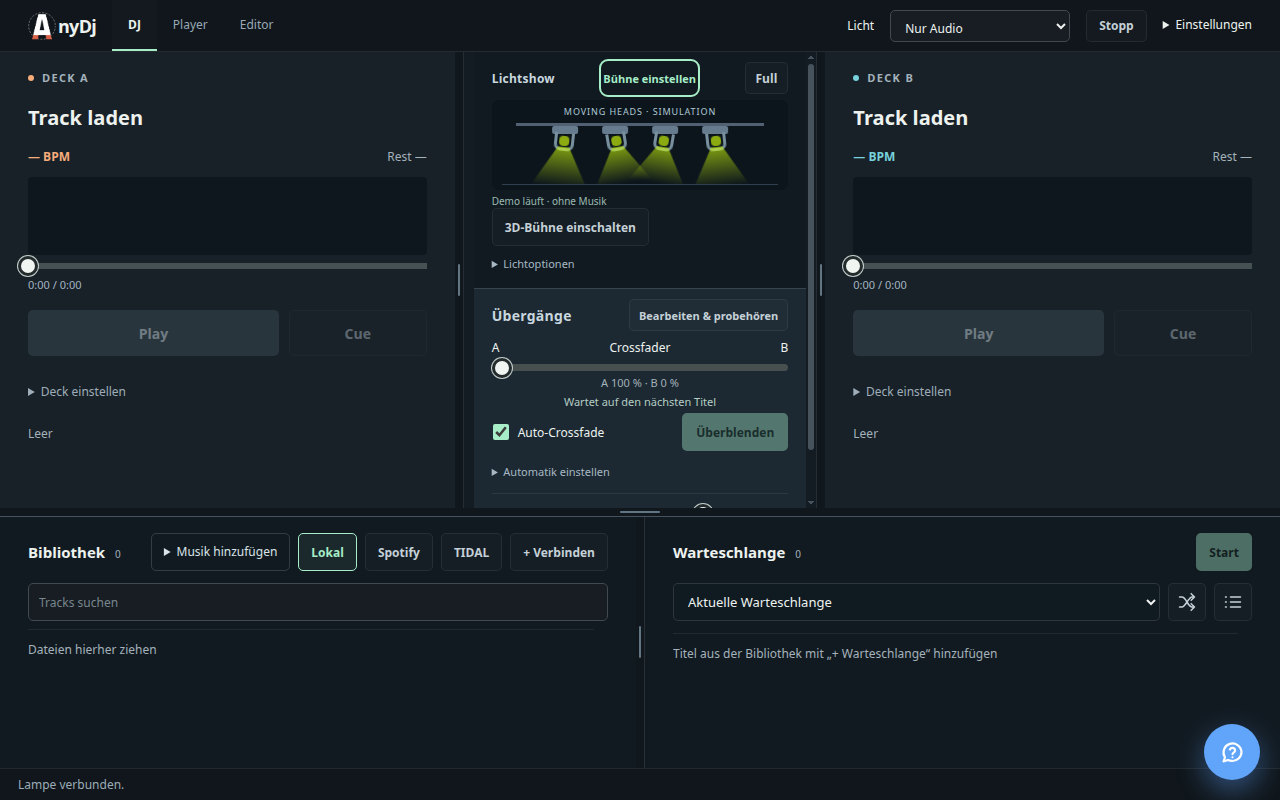
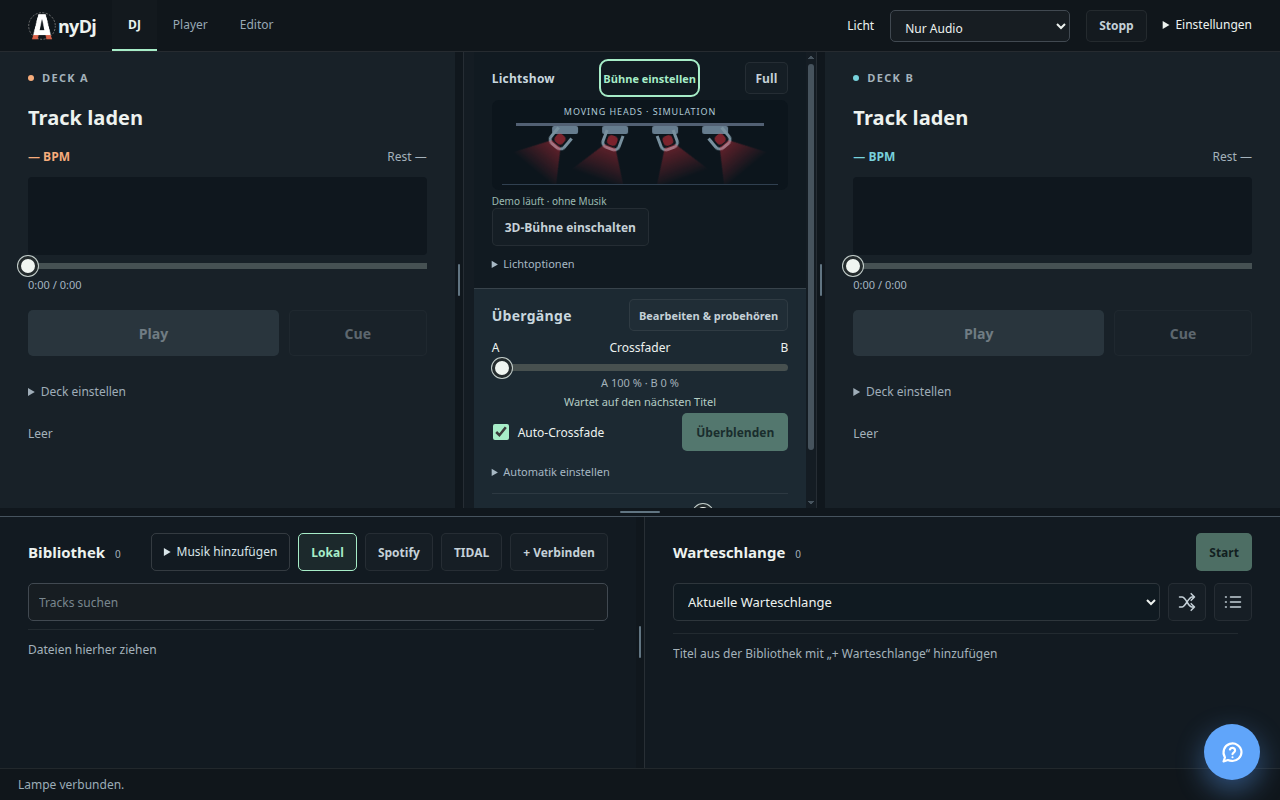
Fixed test

Changed region(s): [[0.4062, 0.1562, 0.5938, 0.25]]

diff --git a/public/dmx-moving-cues.js b/public/dmx-moving-cues.js
@@ -5,6 +5,7 @@ import {dramaAt} from './instrument-activity.js';
 import {MOVING_MOODS,movingMood} from './dmx-moving-moods.js';
 const clamp=(v,a=0,b=1)=>Math.max(a,Math.min(b,v));
 const finite=(v,fallback)=>Number.isFinite(v)?v:fallback;
+const continuous=cue=>cue?.continuous||cue?.reason==='groove';
 // Choose destinations from acoustically selected events, never every grid beat.
 // Travel ends ON the event. Quiet gaps hold the last destination.
 export function movingCues(plan,mode,mood='balanced'){
@@ -60,7 +61,7 @@ export function movingCues(plan,mode,mood='balanced'){
     const directionDesign=directions[phraseIndex];
     const design=mood==='balanced'||mood==='disco'?directionDesign:null;
     const event=arrangement.patterns?.events?.[index];
-    const atmospheric=!event?.development&&mode==='auto'&&mood==='balanced'&&(phrase?.movement?.character==='atmospheric'||['held','quiet','break','outro'].includes(section?.look));
+    const atmospheric=!event?.development&&mode==='auto'&&mood==='balanced'&&(directionDesign?.category==='atmospheric'||['held','quiet','break','outro'].includes(section?.look));
     const kind=atmospheric?'sweep':mode==='wash'?'wash':mood==='atmospheric'?'sweep':event?.kind||phrase?.kind||'bounce';
     const calm=atmospheric||kind==='wash'||['held','quiet','break','outro'].includes(section?.look);
     const strength=clamp(finite(arrangement.accents?.[index],0)/.7);
@@ -75,6 +76,7 @@ export function movingCues(plan,mode,mood='balanced'){
       energy>=.55&&rhythmicDrive>=.45&&strength>=.3&&
       (section?.look==='peak'||energy>=.72)&&(event?.driving||phrase.movement.driving>=.5||phrase.movement.percussive);
 
+    const flowing=directed&&design&&!groove&&!event?.development&&!['held','break'].includes(section?.look)&&energy>=.2;
     const prominence=clamp((finite(arrangement.eventSalience?.[index],0)-(motives[phraseIndex]?.salience??.35))/.4);
     let drive=1;
     let reason;
@@ -82,15 +84,15 @@ export function movingCues(plan,mode,mood='balanced'){
       while(barIndex<downbeats.length&&downbeats[barIndex]<time-.04)barIndex++;
       const onBar=Math.abs((downbeats[barIndex]??Infinity)-time)<=.04;
       const motive=motives[phraseIndex];
-      const entrance=motive.changed&&lastEntry!==phraseIndex;
+      const entrance=(design?phraseIndex===0||phrases[phraseIndex-1]?.section!==phrase.section:motive.changed)&&lastEntry!==phraseIndex;
       const standout=finite(arrangement.accents?.[index],0)>=motive.threshold;
       const rise=(dramaAt(arrangement.drama,time)?.intensity??0)-(dramaAt(arrangement.drama,Math.max(section?.start??0,time-2))?.intensity??0);
       const building=section?.look==='lift'&&event?.kind==='build'&&(event.development||onBar&&rise>=.08);
-      if(!entrance&&!standout&&!building&&!groove)continue;
-      reason=event?.development?'build-development':groove?'groove':entrance?'musical-change':building?'build':'strong-accent';
+      if(!entrance&&!standout&&!building&&!groove&&!flowing)continue;
+      reason=event?.development?'build-development':groove?'groove':entrance?'musical-change':building?'build':standout?'strong-accent':'section-flow';
     }
     const previous=cues.at(-1),gap=time-previous.time;
-    if(gap<(groove?.65:Math.max(profile.spacing,design?.spacing??0,atmospheric?4:0,calm?1.5:kind==='sweep'?.75:.38)))continue;
+    if(gap<(groove?.65:flowing&&reason==='section-flow'?(calm?4:2):Math.max(profile.spacing,design?.spacing??0,atmospheric?4:0,calm?1.5:kind==='sweep'?.75:.38)))continue;
     const tone=clamp(finite(phrase?.tone,.5));
     const progress=clamp(finite(event?.progress,0));
     const spread=calm?5+energy*6:kind==='build'?8+24*progress:12+energy*20;
@@ -116,7 +118,7 @@ export function movingCues(plan,mode,mood='balanced'){
         // Keep turns on a musical subdivision. Energy chooses a phrase-level
         // pace, rather than shifting the phase at every individual drum hit.
         if(lastGrooveBeat===null||groovePhrase!==phraseIndex){
-          const phraseEnergy=dramaAt(arrangement.drama,phrase.start+.5)?.intensity??phrase.energy??energy;
+          const phraseEnergy=directionDesign?.energy??dramaAt(arrangement.drama,phrase.start+.5)?.intensity??phrase.energy??energy;
           drive=phraseEnergy>=.85?2:phraseEnergy<.65?.5:1;
         }else drive=lastDrive;
         if(lastGrooveBeat===null)motionBeat=Math.max(0,beat-(beatPosition(motionGrid,phrase.start)??beat))*drive;
@@ -130,12 +132,12 @@ export function movingCues(plan,mode,mood='balanced'){
       pose=groovePose(phaseBeat,{energy,strength,percussion,vocals,span:profile.span,formation:directionDesign?.formation||(mood==='disco'?'ribbon':'pairs'),shape:directionDesign?.shape||'sweep',progress:section?clamp((time-section.start)/Math.max(.1,section.end-section.start)):progress,period:mood==='disco'?4:(directionDesign?.period||16)});
     }else if(design&&!event?.development){
       const sectionProgress=section?clamp((time-section.start)/Math.max(.1,section.end-section.start)):progress;
-      const phraseBeat=(beatPosition(motionGrid,time)??time*2)-(beatPosition(motionGrid,phrase.start)??phrase.start*2);
+      const phraseBeat=(beatPosition(motionGrid,time)??time*2)-(beatPosition(motionGrid,section?.start??phrase.start)??(section?.start??phrase.start)*2);
       pose=directedPose(design,Math.floor(phraseBeat/4),sectionProgress).map(p=>({pan:clamp(p.pan*profile.span,-42,42),tilt:clamp(.8+(p.tilt-.8)*Math.min(1,profile.span),.55,1.15)}));
     }
     if(directed&&(design||groove)){
       const spatialBeat=beatPosition(motionGrid,time)??time*2;
-      pose=spatialPose(pose,spatialBeat,{energy,span:profile.span});
+      pose=spatialPose(pose,spatialBeat,{energy,span:profile.span,asymmetry:clamp((directionDesign?.asymmetry??.3)+(mood==='disco'?.2:0))});
     }
     if(!groove){lastGrooveBeat=null;groovePhrase=-1;}
     // Account for the peak speed of each interpolation curve. Short intervals
@@ -146,10 +148,10 @@ export function movingCues(plan,mode,mood='balanced'){
     // Connected rhythmic journeys fill their interval. Isolated gestures
     // retain bounded anticipation, so genuine quiet gaps still hold.
     const connected=groove&&mood!=='disco'&&previous.reason==='groove'&&sustained(previous.time,time);
-    const available=directed?Math.min(gap,event?.development?2:calm?1.5:groove?(connected?gap:1.2):.6):gap;
+    const available=directed?Math.min(gap,event?.development?2:flowing?Math.min(calm?4:2,time-(section?.start??0)):calm?1.5:groove?(connected?gap:1.2):.6):gap;
     const fraction=motionReach(previous.pose,pose,available,speed);
     const reachable=pose.map((p,i)=>({pan:previous.pose[i].pan+(p.pan-previous.pose[i].pan)*fraction,tilt:previous.pose[i].tilt+(p.tilt-previous.pose[i].tilt)*fraction}));
-    cues.push({time,...(reason?{reason}:{}),...(directed?{shape:directionDesign?.shape||'sweep'}:{}),...(groove&&mood!=='disco'?{drive,settle:prominence>.75?.95:prominence*.7}:{}),travel:groove?available:Math.min(available,Math.max(profile.travel,design?.travel??0,atmospheric?3:0,calm?.8:.2,motionDuration(previous.pose,reachable,speed))),pose:reachable});
+    cues.push({time,...(flowing?{continuous:true,settle:prominence>.75?.6:0}:{}),...(reason?{reason}:{}),...(directed?{shape:directionDesign?.shape||'sweep'}:{}),...(groove&&mood!=='disco'?{drive,settle:prominence>.75?.95:prominence*.7}:{}),travel:groove||flowing?available:Math.min(available,Math.max(profile.travel,design?.travel??0,atmospheric?3:0,calm?.8:.2,motionDuration(previous.pose,reachable,speed))),pose:reachable});
     if(directed)lastEntry=phraseIndex;
     ordinal++;
   }
@@ -161,14 +163,14 @@ export function movingCueAt(cues,time){
   const previous=cues[Math.max(0,lo-1)],next=cues[lo];
   if(!next||time<=next.time-next.travel)return previous.pose;
   const phase=clamp((time-(next.time-next.travel))/next.travel);
-  if(next.reason!=='groove'){
+  if(!continuous(next)){
     // Zero velocity AND acceleration at an isolated move's endpoints.
     const ease=phase*phase*phase*(phase*(phase*6-15)+10);
     return previous.pose.map((p,i)=>({pan:p.pan+(next.pose[i].pan-p.pan)*ease,tilt:p.tilt+(next.pose[i].tilt-p.tilt)*ease}));
   }
   const tangent=(index,head,key)=>{
     const a=cues[index-1],b=cues[index],c=cues[index+1];
-    if(!a||!c||b.reason!=='groove'||c.reason!=='groove'||
+    if(!a||!c||!continuous(b)||!continuous(c)||
       Math.abs(b.travel-(b.time-a.time))>1e-6||Math.abs(c.travel-(c.time-b.time))>1e-6)return 0;
     return motionTangent(a.pose[head][key],b.pose[head][key],c.pose[head][key],b.time-a.time,c.time-b.time)*(1-(b.settle??0));
   };

diff --git a/public/dmx-moving-direction.js b/public/dmx-moving-direction.js
@@ -5,14 +5,28 @@ const finite=(v,fallback)=>Number.isFinite(v)?v:fallback;
 // choreography, random figures or additional audio/model processing.
 export function movingDirections(plan,disco=false){
  const phrases=plan.arrangement?.patterns?.phrases||[],memory=[];
- return phrases.map(phrase=>{
-  if(!phrase.movement)return null; // Older plans retain their previous rendering.
+ const sectionProfiles=new Map(),sectionDesigns=new Map();
+ return phrases.map(original=>{
+  const sectionKey=Number.isInteger(original.section)?original.section:original;
+  if(!original.movement)return null;
+  if(sectionDesigns.has(sectionKey))return {...sectionDesigns.get(sectionKey),start:original.start,end:original.end};
+  let phrase=sectionProfiles.get(sectionKey);
+  if(!phrase){
+   const members=phrases.filter(p=>Number.isInteger(original.section)?p.section===original.section:p===original),duration=members.reduce((n,p)=>n+Math.max(.001,p.end-p.start),0);
+   const mean=(read,fallback)=>members.reduce((n,p)=>n+finite(read(p),fallback)*Math.max(.001,p.end-p.start),0)/duration;
+   const section=plan.sections?.[original.section];
+   phrase={...original,start:section?.start??original.start,end:section?.end??original.end,energy:mean(p=>p.energy,.4),tone:mean(p=>p.tone,.5),
+    movement:original.movement?{...original.movement,driving:mean(p=>p.movement?.driving,0),character:mean(p=>p.movement?.character==='atmospheric'?1:0,0)>.5?'atmospheric':original.movement.character==='atmospheric'?'rhythmic':original.movement.character}:null,
+    attention:{motionScale:mean(p=>p.attention?.motionScale,1),leader:members.filter(p=>p.attention?.leader==='vocals').length>members.length/2?'vocals':undefined}};
+   sectionProfiles.set(sectionKey,phrase);
+  }
+  if(!original.movement)return null; // Older plans retain their previous rendering.
   const section=plan.sections?.[phrase.section]||{};
-  let percussion=0,vocals=0,samples=0;
-  for(let t=phrase.start;t<phrase.end;t+=.5){const d=dramaAt(plan.arrangement.drama,t);if(d){percussion+=d.percussion;vocals+=d.vocalShare;samples++;}}
+  let percussion=0,vocals=0,intensity=0,samples=0;
+  for(let t=phrase.start;t<phrase.end;t+=.5){const d=dramaAt(plan.arrangement.drama,t);if(d){percussion+=d.percussion;vocals+=d.vocalShare;intensity+=d.intensity;samples++;}}
   percussion=samples?percussion/samples:finite(phrase.movement.driving,0);
   vocals=samples?vocals/samples:0;
-  const energy=clamp(finite(phrase.energy,.4)),tone=clamp(finite(phrase.tone,.5));
+  const energy=clamp(samples?intensity/samples:finite(phrase.energy,.4)),tone=clamp(finite(phrase.tone,.5));
   const quiet=phrase.movement.character==='atmospheric'||['held','quiet','break','outro'].includes(section.look);
   const build=!quiet&&section.look==='lift',peak=!quiet&&section.look==='peak';
   const motionScale=phrase.attention?.motionScale??1;
@@ -25,15 +39,17 @@ export function movingDirections(plan,disco=false){
    const shape=quiet?'arc':build?'fan':orbit?'orbit':phrase.attention?.leader==='vocals'||vocals>.5?'focus':percussion>.65?'pulse':tone>.6?'cross':'sweep';
    // Width, travel speed and cue density are independent controls. An ambient
    // arc can cover a wide area while taking several seconds to get there.
-   design={shape,formation:quiet?'mirror':disco?(shape==='focus'?'mirror':percussion>.65?'diagonal':'ribbon'):shape==='focus'?'relay':build?'ribbon':percussion>.65?'pairs':'ribbon',width:quiet?16+10*tone:build?28:peak?25+9*energy:12+10*energy,
+   design={shape,energy,formation:quiet?'mirror':disco?(shape==='focus'?'mirror':percussion>.65?'diagonal':'ribbon'):shape==='focus'?'relay':build?'ribbon':percussion>.65?'pairs':'ribbon',width:quiet?16+10*tone:build?28:peak?25+9*energy:12+10*energy,
     speed:quiet?.22:build?.5:peak?.8:percussion>.65?.65:.4,
     spacing:quiet?4:build?1:peak?.5:percussion>.65?.6:1.5,
     travel:quiet?3:build?1.1:peak?.3:percussion>.65?.45:1.2,
+    asymmetry:quiet?.08:shape==='focus'?.12:build?.18:peak?.3+.25*percussion:shape==='cross'?.35:.2+.15*percussion,
     period:quiet?32:16,inner: .6-.25*vocals,depth:.06+.09*tone};
    design.speed*=motionScale;design.spacing/=motionScale;design.travel/=motionScale;
    if(section.motif!==undefined)memory.push({motif:section.motif,category,evidence,design});
   }
-  return {...design,start:phrase.start,end:phrase.end,motif:section.motif,category,recalled:Boolean(prior)};
+  const result={...design,start:original.start,end:original.end,motif:section.motif,category,recalled:Boolean(prior)};
+  sectionDesigns.set(sectionKey,result);return result;
  });
 }
 export function directedPose(design,ordinal,progress=0){
@@ -98,10 +114,10 @@ export function groovePose(beat,{energy,strength,percussion,vocals,span=1,format
 // Move the gesture's working area over musical bars, independently of its local
 // sweep/pulse. Each head visits the floor rather than staying an "inner" head.
 // Smooth bounded anchors avoid clipping, random jumps and a permanent orbit.
-export function spatialPose(poses,beat,{energy=.5,span=1}={}){
+export function spatialPose(poses,beat,{energy=.5,span=1,asymmetry=0}={}){
  const anchors=[[-.8,-.8],[.7,.55],[-.55,.85],[.85,-.55],[.15,.75],[-.75,-.15],[.6,-.85],[-.2,.35]];
- const spread=clamp(span,0,1),pace=beat/8;
- return poses.map((pose,i)=>{
+ const spread=clamp(span,0,1),pace=beat/8,freedom=clamp(asymmetry);
+ const independent=poses.map((pose,i)=>{
   const phase=pace+i*2,index=Math.floor(phase),fraction=phase-index;
   const t=fraction*fraction*fraction*(fraction*(fraction*6-15)+10);
   const a=anchors[((index%anchors.length)+anchors.length)%anchors.length],b=anchors[((index+1)%anchors.length+anchors.length)%anchors.length];
@@ -111,5 +127,13 @@ export function spatialPose(poses,beat,{energy=.5,span=1}={}){
   const local=.55+.1*clamp(energy);
   return {pan:pose.pan*local+x*42*(1-local)*spread,
    tilt:.85+(pose.tilt-.85)*.3+y*.23*spread};
+ });
+ // Blend paired and independent roles according to the musical phrase.
+ // Keep the authored left-side gestures and mirror their partners. Averaging
+ // opposing gestures would collapse the floor coverage back to the centre.
+ return independent.map((pose,i)=>{
+  const partner=i<2?i:3-i,lead=independent[partner];
+  const pan=i<2?lead.pan:-lead.pan;
+  return {pan:pan+(pose.pan-pan)*freedom,tilt:lead.tilt+(pose.tilt-lead.tilt)*freedom};
  });
 }

diff --git a/public/dmx-moving-plan.js b/public/dmx-moving-plan.js
@@ -31,7 +31,7 @@ export function movingPlanJob(plan,mode='auto',mood='balanced'){
     return result.map((p,i)=>({pan:p.pan*(i===0||i===3?1:.55),tilt:Math.max(.55,Math.min(1.15,p.tilt+((i===0||i===3) ? .04 : -.08)))}));
   }
   return {
-    result:{version:10,duration:plan.duration,step,values,mode:modes(mode),mood},
+    result:{version:13,duration:plan.duration,step,values,mode:modes(mode),mood},
     get done(){return index===count;},
     advance(samples=128){
       if(cues===undefined){cues=movingCues(plan,modes(mode),mood);this.result.cues=cues;}

diff --git a/reports/musical-moving-gestures.md b/reports/musical-moving-gestures.md
@@ -85,3 +85,23 @@ Die musikalische normalisierte Tiefe steuert die Verlagerung vom gerouteten Bode
 Dies erweitert die Raum-/VR-Vorschau; physische Geräteansteuerung und Montagekalibrierung sind damit noch nicht auf Wandziele umgestellt. Bei erfassten Raumoberflächen dient weiterhin der extrudierte Grundriss als Zielgeometrie, kein detailliertes Mesh-Raytracing. Flächenlicht bleibt eine Näherung ohne echte Schatten.
 
 210 DMX-/VR-Tests bestanden: Parameterprüfung, stetiger Boden-/Wandübergang, konkave Verdeckung, Ruhezonen, vertikale begrenzte Lichtflecken und Zielhöheninterpolation. Raum-Browsercheck bestätigt Bearbeitung, Neuladen und Headset-Rückübertragung der Wandparameter. Bestehender WebGL-Stereotest bestanden, ohne GL-Fehler oder wiederholte Pufferallokation. Mikrobenchmark der zusätzlichen Zielgeometrie: 32 Moving Heads, rechteckiger Raum, 10.000 Durchläufe nach Warmup, ca. 0,003 ms pro Frame in Node; dies ist keine Messung der gesamten Darstellung oder einer echten VR-Brille.
+
+## Musikalische Balance der Gruppen (Planversion 11)
+
+Die vorherige räumliche Verlagerung gab jedem Kopf dauerhaft einen eigenen Phasenversatz. Jetzt mischt die Choreografie zusammengehörige Spiegelpaare mit diesen freien Rollen. Das Mischungsverhältnis stammt aus der musikalischen Phrase: ruhig, gesangsgeführt und Aufbau bleiben stärker zusammen; tonale Kreuzbewegungen und perkussive Höhepunkte erhalten mehr Unabhängigkeit. Markante akustische Akzente können diese kurz erhöhen. Wiederkehrende Motive erinnern auch ihre Gruppenbalance. Es gibt weder eine erzwungene Dauersymmetrie noch dauerhaft unabhängige Köpfe. Der Disco-Modus gewichtet Freiheit etwas stärker, folgt aber derselben musikalischen Auswahl.
+
+Die linken Gesten werden für den zusammengehörigen Anteil gespiegelt, nicht gegensinnige Ziele gemittelt: So bleibt die räumliche Ausdehnung erhalten. Die Mischung erfolgt vor der bestehenden Erreichbarkeits-/Geschwindigkeitsprüfung. Flächenabdeckung, Pausen, Seeking und Ruhezonen bleiben geprüft. Regression vergleicht ruhige, gesangsgeführte, Aufbau- und Peak-Phrasen sowie Motivwiederholung und die Zwischenstufen zwischen gepaarten und unabhängigen Rollen.
+
+## Sektionsführung mit laufender Entwicklung (Planversion 12)
+
+Der Bewegungscharakter wird einmal je Sektion aus deren Instrumentaktivität, Intensität und zeitlich gewichteten Phrasenmerkmalen berechnet und wiederverwendet. Form, Gruppenbalance und Grundtempo bleiben innerhalb dieser Sektion zusammenhängend. Kurze Phrasenwechsel setzen die räumliche Figur nicht zurück; Einzelakzente ändern nicht mehr das Verhältnis zwischen gepaarten und freien Rollen. Gemessene Sektionsintensität bestimmt weiterhin das Groove-Tempo.
+
+Außerhalb kräftiger Grooves gibt es bei vorhandener musikalischer Aktivität langsame Folgeziele aus den bestehenden Analyseereignissen: etwa alle vier Sekunden in ruhigen und zwei Sekunden in sonstigen Passagen. Diese entwickeln Wege und Tiefe weiter, statt bis zum nächsten starken Akzent stillzustehen. Die Zeitabstände sind Mindestabstände, keine zusätzlichen erfundenen Audioereignisse. Bewusste Held-/Break-Abschnitte und inaktive Passagen behalten ihre Haltefunktion. Übergänge nutzen weiterhin die begrenzte Erreichbarkeit und weiche Interpolation; ruhige Folgebewegungen greifen nicht vor den Beginn ihrer Sektion zurück. Die besonders zurückhaltenden manuellen Stimmungen behalten ihr bisheriges Verhalten.
+
+212 DMX-/VR-Tests bestanden, darunter ein mehrphasiges Beispiel mit ruhiger und wilder Sektion: gleicher Charakter innerhalb jeder Sektion, stärkere Freiheit und Geschwindigkeit im Peak und fortlaufende Bewegung in der ruhigen Passage. Bestehende Prüfungen für Flächenabdeckung, Motorgrenzen, Pausen, Seeking und Ruhezonen bestehen.
+
+## Flüssige Folgebewegungen (Planversion 13)
+
+Die neuen Sektions-Folgeziele wurden bisher mit der Interpolation für isolierte Gesten abgespielt. Diese setzt Geschwindigkeit und Beschleunigung an jedem Ziel auf null; zusätzlich konnten verkürzte Reisezeiten kurze Haltephasen erzeugen. Folgebewegungen erhalten jetzt eine explizite Kontinuitätsmarkierung und nutzen das verfügbare Intervall vollständig. Die bereits vorhandene Quintik verbindet benachbarte Wege mit gemeinsamer End-/Anfangsgeschwindigkeit, auch beim Übergang in einen Groove. Vorzeichenwechsel der Bewegungsrichtung, tatsächliche Lücken und isolierte Gesten behalten ihre Brems-/Haltefunktion. Nur außergewöhnliche akustische Akzente dürfen eine Folgebewegung gezielt stärker abbremsen.
+
+213 DMX-/VR-Tests bestanden. Neue Regressionen prüfen positive, stetige Geschwindigkeit an Zwischenzielen einschließlich Übergang zum Groove, vollständige Reiseintervalle in ruhigen Sektionen und unveränderte echte Pausen. Bestehende Motorgrenzen und Ruhezonenprüfungen bestehen. Diese Korrektur betrifft das sichtbare Stop-and-go der Choreografie; eine Messung eventueller zusätzlicher Frame-Aussetzer auf dem Gerät des Nutzers liegt nicht vor.
